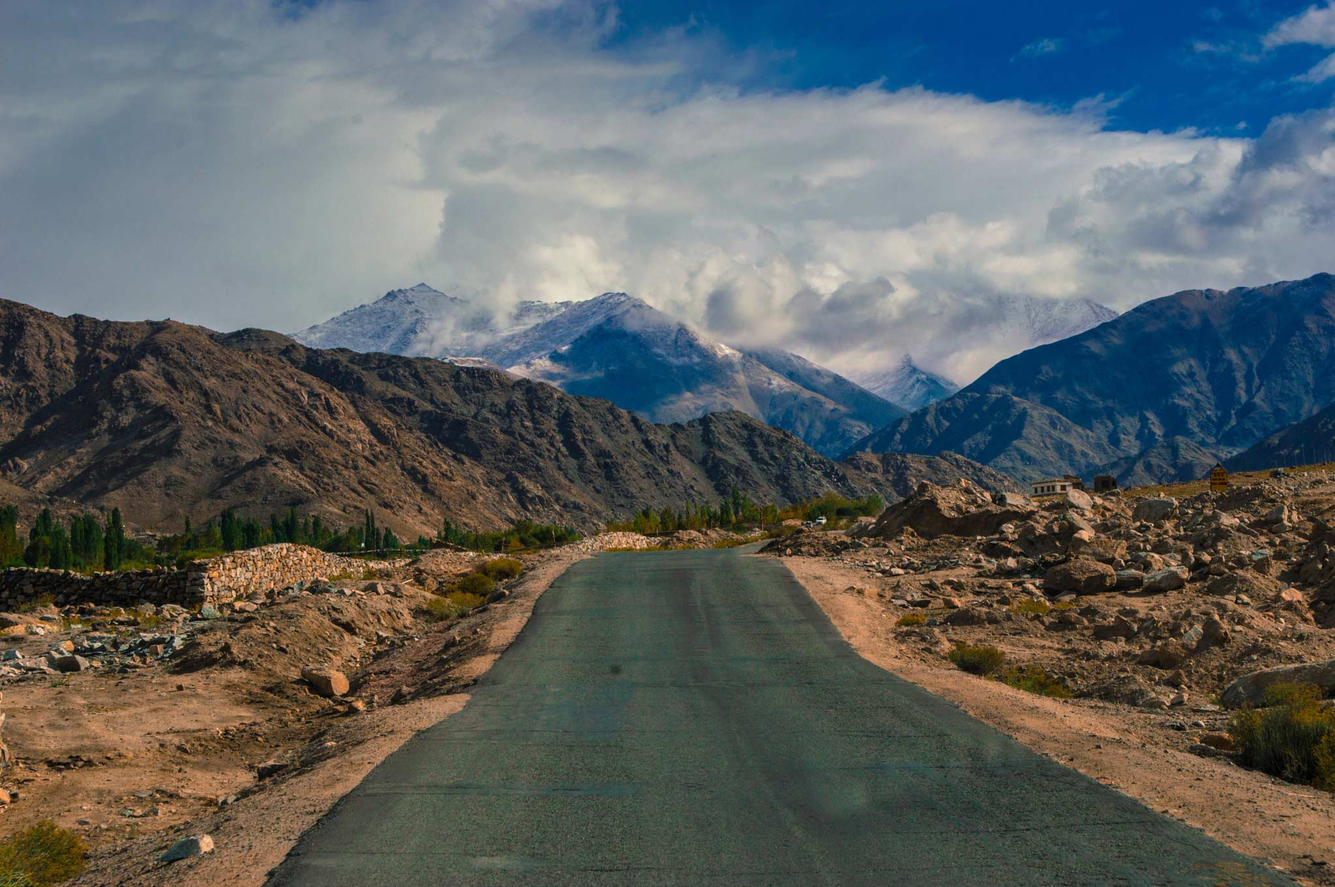
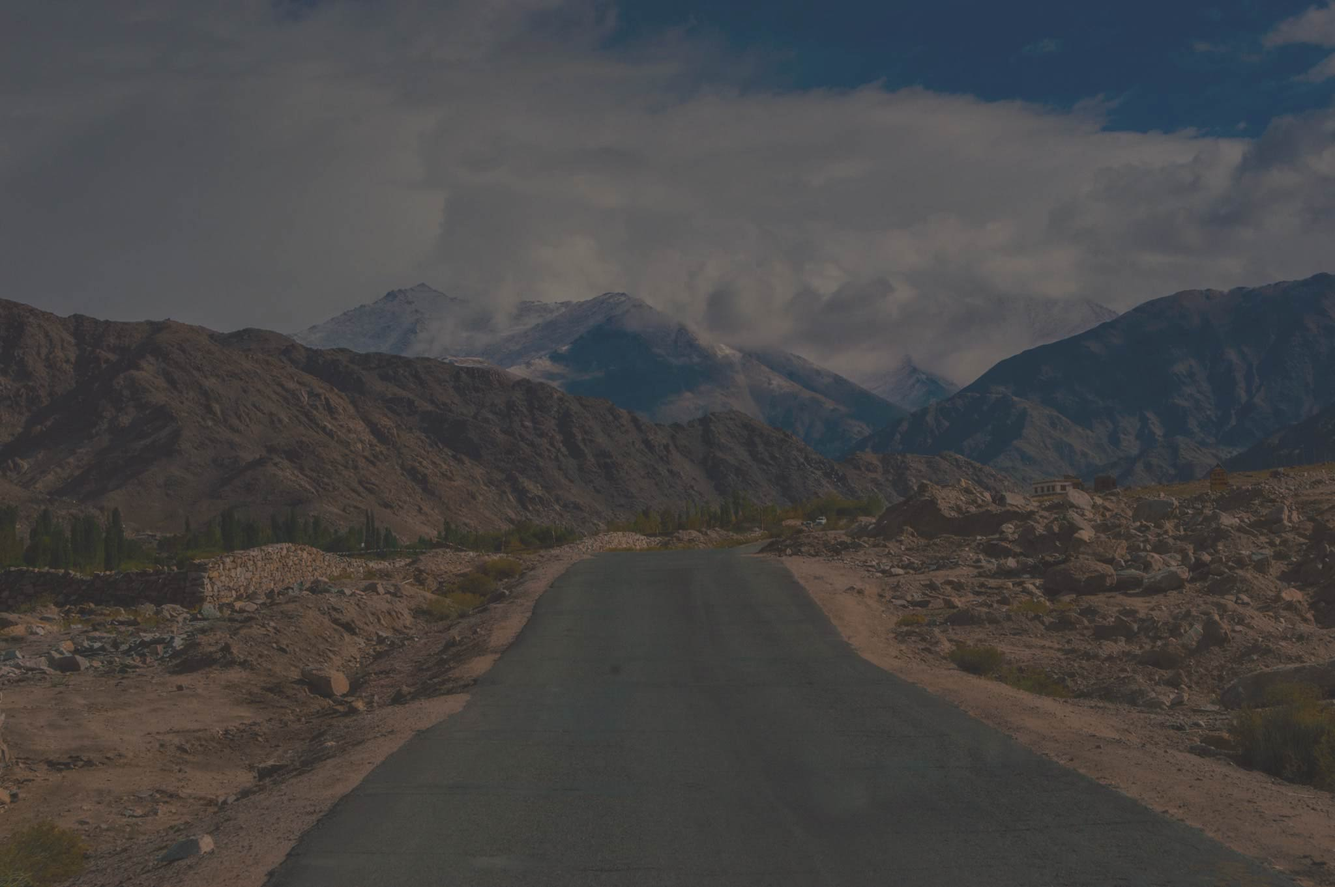
fixed issues

diff --git a/src/App.css b/src/App.css
@@ -1,15 +1,16 @@
 .App {
   text-align: center;
-  height: "100%";
-  background-image: url("./back.png");
-  position: absolute;
+ /* height: "100%";*/
+  background-image: url("./back.jpg");
+  background-position: "center";
+/*  position: absolute;
   top: 0px;
   bottom: 0px;
   left: 0px;
   right: 0px;
-  /*height: 100vh;*/
+*/  /*height: 100vh;*/
+  min-height: 100vh;
   display: flex;
-  background-position: "center";
   flex-direction: column;
 }
 
@@ -17,11 +18,9 @@
   width: 50%; 
   margin-left: auto; 
   margin-right: auto;
-  margin-bottom: 0px;
   /*min-width: 350px;*/
-  position: relative;
+ /* position: relative;*/
   display: flex;
-  bottom: 0px;
   flex-direction: column;
 }
 
@@ -54,6 +53,12 @@
   color: white;
 }
 
+.contact a {
+  text-decoration: none;
+  color: white;
+}
+
+
 @media only screen and (max-width: 500px) {
   .Content {
     width: 90%;
@@ -63,6 +68,18 @@
     height: auto;
   }
 }
+
+/*@media only screen and (max-height: 500px) {
+  .App {
+    min-height: 540px; 
+  }
+}*/
+
+/*@media only screen and (min-height: 760px) {
+  .App {
+    min-height: 100vh; 
+  }
+}*/
 
 /*.App-logo {
   animation: App-logo-spin infinite 20s linear;

diff --git a/src/App.js b/src/App.js
@@ -29,7 +29,7 @@ class App extends Component {
         </div>
         <div className="BoxTwo">
           <p className="contact">
-            info@teis.capital
+            <a href="mailto:info@teis.capital"> info@teis.capital </a>
           </p>
         </div>
         </div>
